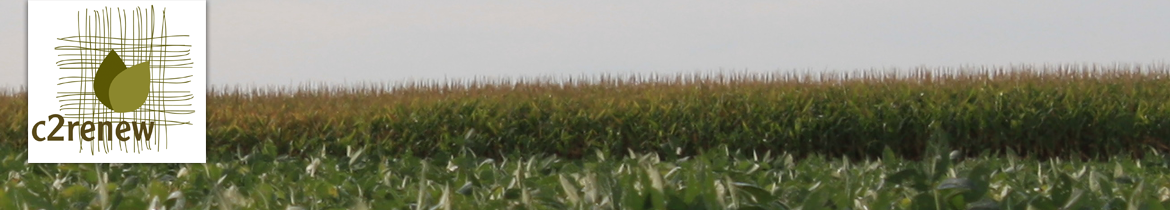
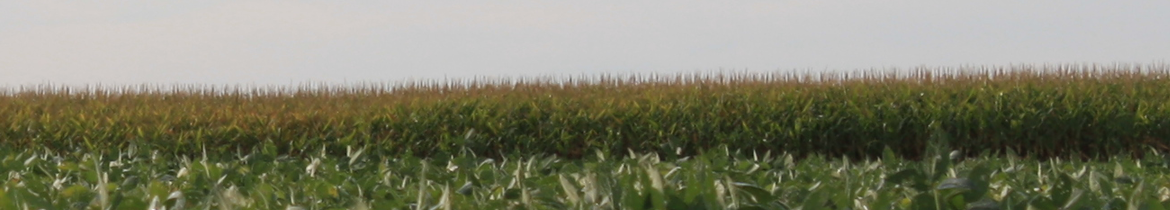
latest

Changed region(s): [[0.0, 0.0, 0.1846, 0.8]]

diff --git a/c2renew/src/stylesheets/style.scss b/c2renew/src/stylesheets/style.scss
@@ -1,19 +1,55 @@
-.container {
-  margin-left: auto !important;
-  margin-right: auto !important;
+$yellow: #F5F1BA;
+$brown: #39362f;
 
-  .header {
-    background: url('/images/header.png') no-repeat;
-    height: 210px;
-    .menu {
-      cursor: pointer;
-      margin: 168px 0 0 0px;
-      background-color: yellow;
-    }
-    .quote {
-      color: white;
-      text-shadow: 1px 1px 1px black;
-      padding-top: 30px;
-    }
-  }
+html {
+  height: 100%;
 }
+body {
+  background-color: #39362f;
+  height: 100%;
+  .shell {
+    box-shadow: 0px 3px 68px black;
+    height: 100%;
+    background-color: white;
+    margin-left: auto !important;
+    margin-right: auto !important;
+    max-width: 1170px;
+   }
+  .container {
+    margin-left: auto !important;
+    margin-right: auto !important;
+    .header {
+      position: relative;
+      background: url('/images/header.png') no-repeat;
+      height: 210px;
+      box-shadow: 0px 3px 3px;
+      .menu {
+        cursor: pointer;
+        margin: 168px 0 0 0px;
+        background-color: $brown;
+        box-shadow: 0px 3px 3px;
+        a {
+          color: $yellow;
+          &:hover {
+            color: $brown;
+            background-color: $yellow;
+          }
+        }
+        
+      }
+      .quote {
+        color: white;
+        text-shadow: 1px 1px 1px black;
+        padding-top: 30px;
+      }
+      .logo {
+        position: absolute;
+        left: 20px;
+        box-shadow: 0px 3px 3px black;
+      } //logo
+      h1 {
+        color: $yellow;
+      } //h1
+    } //header
+  } //container
+} //body

diff --git a/c2renew/site/materials.html b/c2renew/site/materials.html
@@ -46,12 +46,20 @@
         </div>
       </div>
       <div class='container'>
-        <div class='row homepage'>
-          <div class='col-md-4 col1'>
-            anybody?
+        <div class='row'>
+          <div class='col-md-12'>
+            c2renew designs custom formulations for each customer to produce a biocomposite specifically for
+            their application. We can work with your company at the design stage to tailor make the biocomposite
+            for the part as well as help design the part for the application. If the part is already designed or in
+            production, we can also produce a biocomposite formulation which will serve as a drop in replacement
+            for a polymer. c2renew has experience working with a wide variety of thermoplastics including PP, PE,
+            PLA, ABS, ABS/PC, PA and more. We have experience using a multitude of agricultural inputs as fillers in
+            our materials such as flax fiber, flax shive, wood flour, sunflower hull, dried distiller grains with solubles,
+            soybean hull, oat hull, sugar beet pulp, etc. With our experience and technology, our formulations
+            are dependent on no single biomass source; we can use different combinations to maintain the same
+            properties and cost. For higher temperature thermoplastics such as ABS or PA, we use thermally
+            stabilized biomass to prevent off gassing during production.
           </div>
-          <div class='col-md-4 col2'></div>
-          <div class='col-md-4 col3'></div>
         </div>
       </div>
     </div>

diff --git a/c2renew/site/stylesheets/style.css b/c2renew/site/stylesheets/style.css
@@ -1,22 +1,63 @@
-/* line 1 */
-.container {
+/* line 4 */
+html {
+  height: 100%;
+}
+
+/* line 7 */
+body {
+  background-color: #39362f;
+  height: 100%;
+}
+/* line 10 */
+body .shell {
+  box-shadow: 0px 3px 68px black;
+  height: 100%;
+  background-color: white;
+  margin-left: auto !important;
+  margin-right: auto !important;
+  max-width: 1170px;
+}
+/* line 18 */
+body .container {
   margin-left: auto !important;
   margin-right: auto !important;
 }
-/* line 5 */
-.container .header {
+/* line 21 */
+body .container .header {
+  position: relative;
   background: url("/images/header.png") no-repeat;
   height: 210px;
+  box-shadow: 0px 3px 3px;
 }
-/* line 8 */
-.container .header .menu {
+/* line 26 */
+body .container .header .menu {
   cursor: pointer;
   margin: 168px 0 0 0px;
-  background-color: yellow;
+  background-color: #39362f;
+  box-shadow: 0px 3px 3px;
 }
-/* line 13 */
-.container .header .quote {
+/* line 31 */
+body .container .header .menu a {
+  color: #f5f1ba;
+}
+/* line 33 */
+body .container .header .menu a:hover {
+  color: #39362f;
+  background-color: #f5f1ba;
+}
+/* line 40 */
+body .container .header .quote {
   color: white;
   text-shadow: 1px 1px 1px black;
   padding-top: 30px;
+}
+/* line 45 */
+body .container .header .logo {
+  position: absolute;
+  left: 20px;
+  box-shadow: 0px 3px 3px black;
+}
+/* line 50 */
+body .container .header h1 {
+  color: #f5f1ba;
 }

diff --git a/c2renew/site/engineering_services.html b/c2renew/site/engineering_services.html
@@ -46,12 +46,17 @@
         </div>
       </div>
       <div class='container'>
-        <div class='row homepage'>
-          <div class='col-md-4 col1'>
-            anybody?
+        <div class='row'>
+          <div class='col-md-12'>
+            c2renew has engineering services to design plastic and composite components using biobased materials
+            or traditional materials for your application. Experienced engineers on staff can design and test
+            solutions using a full suite of 3D design, finite element analysis (FEA), and mold simulation software.
+            Design options include producing a new part from scratch in tandem with a custom biocomposite
+            material, or we can also design biocomposites as drop in replacements to work with a part already in
+            production. We specialize in utilizing natural and recycled materials in place of virgin polymers, but we
+            also have a strong background producing solutions using more traditional materials like fiberglass and
+            carbon fiber.
           </div>
-          <div class='col-md-4 col2'></div>
-          <div class='col-md-4 col3'></div>
         </div>
       </div>
     </div>

diff --git a/c2renew/site/about_us.html b/c2renew/site/about_us.html
@@ -46,12 +46,17 @@
         </div>
       </div>
       <div class='container'>
-        <div class='row homepage'>
-          <div class='col-md-4 col1'>
-            anybody?
+        <div class='row'>
+          <div class='col-md-12'>
+            c2renew provides a performance driven biocomposite material that offers price stability to a volatile
+            plastics market and a greener alternative.
+            c2renew is a material designer and custom compounder who utilizes proprietary biocomposite
+            formulations to meet a wide range of engineering specifications.
+            c2renew corporation designs biocomposite material compounds from agriculture byproducts along with
+            recycled or virgin plastics from petroleum or renewable resources.
+            c2renew provides engineering services to its customers to help design, analyze, and develop plastic and
+            plastic composites parts for a wide variety of applications.
           </div>
-          <div class='col-md-4 col2'></div>
-          <div class='col-md-4 col3'></div>
         </div>
       </div>
     </div>

diff --git a/c2renew/site/why_biomass.html b/c2renew/site/why_biomass.html
@@ -46,12 +46,16 @@
         </div>
       </div>
       <div class='container'>
-        <div class='row homepage'>
-          <div class='col-md-4 col1'>
-            anybody?
+        <div class='row'>
+          <div class='col-md-12'>
+            Utilizing biomass fillers offer the benefits of reduced material cost while maintaining mechanical
+            properties and providing a green alternative. Biomass fillers can reduce the cost of polymers by using
+            low cost biomass in place of expensive base resins. Using our experience and formulation techniques,
+            we are able to maintain or improve most mechanical properties while incorporating biomass fillers.
+            These formulations are more environmentally responsible since the petroleum feedstock can be
+            replaced with agricultural byproducts which would otherwise be left to decay in the soil or sent to the
+            landfill.
           </div>
-          <div class='col-md-4 col2'></div>
-          <div class='col-md-4 col3'></div>
         </div>
       </div>
     </div>

diff --git a/c2renew/site/contact.html b/c2renew/site/contact.html
@@ -46,12 +46,10 @@
         </div>
       </div>
       <div class='container'>
-        <div class='row homepage'>
-          <div class='col-md-4 col1'>
-            anybody?
+        <div class='row'>
+          <div class='col-md-12'>
+            contact info here. php web form, maybe?
           </div>
-          <div class='col-md-4 col2'></div>
-          <div class='col-md-4 col3'></div>
         </div>
       </div>
     </div>
